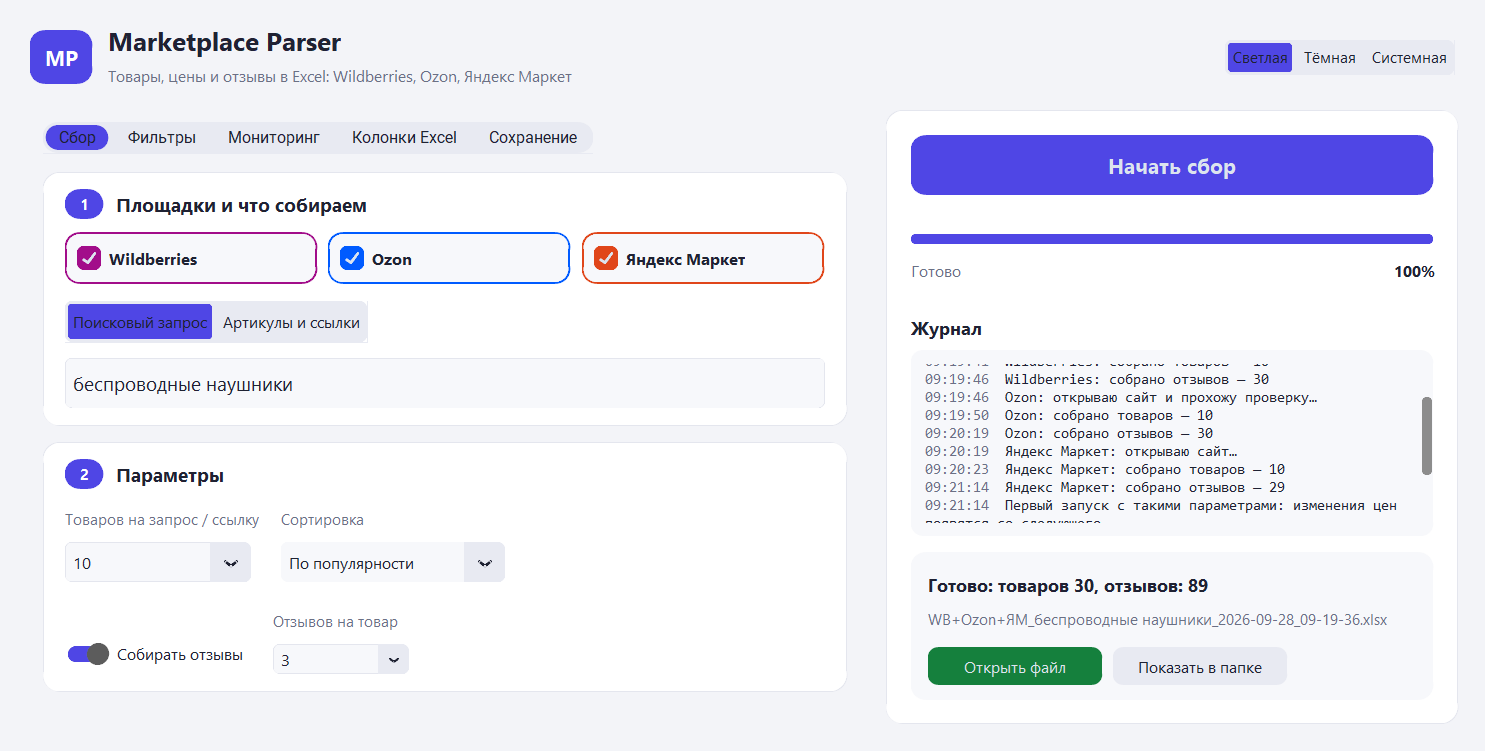
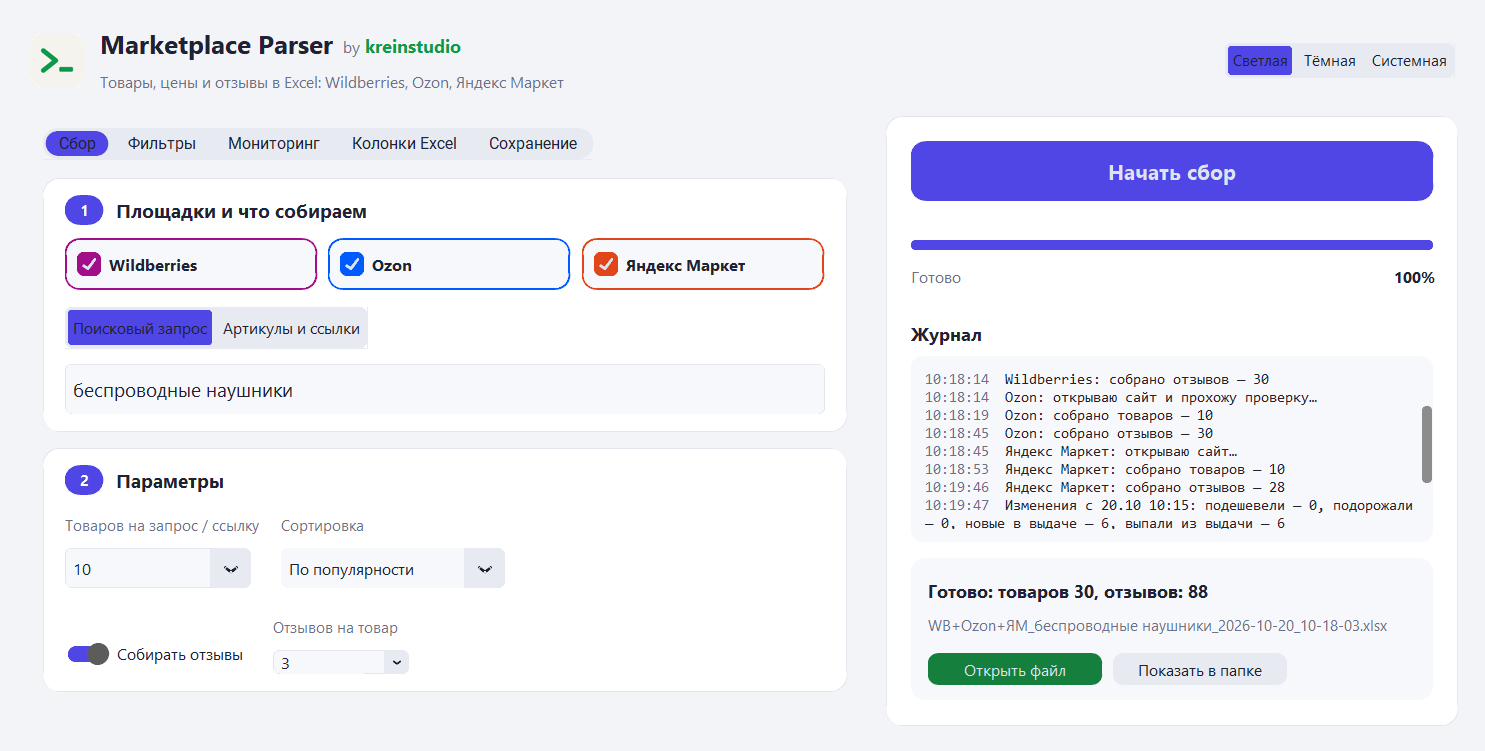
Фирменный стиль krein studio
- в шапке программы вместо значка «MP» — фирменная иконка студии, рядом
  «Marketplace Parser by kreinstudio»; по нажатию на иконку и на название
  студии открывается kreinstudio.ru;
- иконка программы и .exe собрана из фирменного знака;
- логотип студии в начале README на обоих языках, ссылка на сайт в разделе
  «Автор»;
- скриншоты и GIF переснятые: инструменты теперь жёстко задают тему, иначе
  системная подменяла её на тёмную во время записи;
- pillow добавлен в зависимости: шапка рисует логотип через CTkImage,
  а customtkinter сам его не требует;
- сборка кладёт в .exe всю папку assets, включая фирменные знаки.

diff --git a/mpparser/gui/app.py b/mpparser/gui/app.py
@@ -8,6 +8,7 @@ import os
 import queue
 import subprocess
 import threading
+import webbrowser
 from dataclasses import replace
 from datetime import datetime
 from logging.handlers import RotatingFileHandler
@@ -16,6 +17,7 @@ from tkinter import filedialog, messagebox
 from typing import Any, ClassVar
 
 import customtkinter as ctk
+from PIL import Image
 
 from .. import APP_NAME, __version__, plugins
 from ..browser import Browser, BrowserError
@@ -111,12 +113,23 @@ class App(ctk.CTk):
     def _build_header(self) -> None:
         header = ctk.CTkFrame(self, fg_color="transparent")
         header.pack(fill="x", padx=24, pady=(18, 14))
-        logo = ctk.CTkLabel(header, text="MP", width=44, height=44, corner_radius=12, fg_color=theme.ACCENT,
-                            text_color="#FFFFFF", font=theme.font(17, "bold"))
+        logo = ctk.CTkLabel(header, text="", width=44, height=44, image=self._brand_icon())
         logo.pack(side="left")
+        self._open_site_on_click(logo)
+
         titles = ctk.CTkFrame(header, fg_color="transparent")
         titles.pack(side="left", padx=12)
-        ctk.CTkLabel(titles, text=APP_NAME, font=theme.font(21, "bold"), text_color=theme.TEXT).pack(anchor="w")
+        name_row = ctk.CTkFrame(titles, fg_color="transparent")
+        name_row.pack(anchor="w")
+        ctk.CTkLabel(name_row, text=APP_NAME, font=theme.font(21, "bold"),
+                     text_color=theme.TEXT).pack(side="left")
+        ctk.CTkLabel(name_row, text="by", font=theme.font(13), text_color=theme.TEXT_MUTED).pack(
+            side="left", padx=(8, 4), pady=(6, 0))
+        studio = ctk.CTkLabel(name_row, text=theme.BRAND_NAME, font=theme.font(14, "bold"),
+                              text_color=theme.BRAND)
+        studio.pack(side="left", pady=(5, 0))
+        self._open_site_on_click(studio, highlight=True)
+
         names = ", ".join(mp.title for mp in self.marketplaces.values())
         ctk.CTkLabel(titles, text=f"Товары, цены и отзывы в Excel: {names}",
                      font=theme.font(13), text_color=theme.TEXT_MUTED).pack(anchor="w")
@@ -128,6 +141,30 @@ class App(ctk.CTk):
             text_color=theme.TEXT, fg_color=theme.NEUTRAL_BUTTON)
         self.appearance.set("Системная")
         self.appearance.pack(side="right")
+
+    def _brand_icon(self) -> ctk.CTkImage | None:
+        """Studio logo for the header; None when the file is missing, then the header shows text only."""
+        try:
+            light = Image.open(theme.resource_path(theme.BRAND_ICON["light"]))
+            dark = Image.open(theme.resource_path(theme.BRAND_ICON["dark"]))
+        except OSError as exc:
+            log.warning("Brand icon is missing: %s", exc)
+            return None
+        return ctk.CTkImage(light_image=light, dark_image=dark, size=(44, 44))
+
+    def _open_site_on_click(self, widget: ctk.CTkLabel, highlight: bool = False) -> None:
+        """Make a label open the studio site, with a hand cursor and a hover colour.
+
+        CustomTkinter draws a label as a tkinter widget inside a frame, so the cursor has to be set on the
+        inner widgets as well — otherwise it only changes on the thin border around the text.
+        """
+        for inner in (widget, getattr(widget, "_label", None), getattr(widget, "_canvas", None)):
+            if inner is not None:
+                inner.configure(cursor="hand2")
+        widget.bind("<Button-1>", lambda _: webbrowser.open(theme.BRAND_URL))
+        if highlight:
+            widget.bind("<Enter>", lambda _: widget.configure(text_color=theme.BRAND_HOVER))
+            widget.bind("<Leave>", lambda _: widget.configure(text_color=theme.BRAND))
 
     def _build_marketplaces(self, parent: ctk.CTkBaseClass) -> None:
         row = ctk.CTkFrame(parent, fg_color="transparent")

diff --git a/tools/record_gif.py b/tools/record_gif.py
@@ -33,16 +33,16 @@ def main() -> None:
     setup_logging()
     ctk.set_appearance_mode("light")
     app = App()
+    app._set_appearance("Светлая")  # иначе системная тема вернётся через несколько секунд
     app.appearance.set("Светлая")
-    app._apply_log_colors()
     for key, variable in app.mp_vars.items():
         variable.set(True)
         app.mp_toggles[key]._refresh()
     app._refresh_marketplace_state()
     app.query.delete(0, "end")
     app.query.insert(0, query)
-    app.max_products.combo.set("10")
-    app.max_reviews.combo.set("3")
+    app.max_products.combo.set("6")  # короткий демонстрационный сбор: GIF должен успеть дойти до «Готово»
+    app.max_reviews.combo.set("2")
     app.output_dir.delete(0, "end")
     app.output_dir.insert(0, str(output_dir))
     app.open_when_done.deselect()

diff --git a/mpparser/gui/theme.py b/mpparser/gui/theme.py
@@ -22,6 +22,13 @@ WARNING = ("#B45309", "#F59E0B")
 NEUTRAL_BUTTON = ("#E8EAF2", "#2A2E3D")
 NEUTRAL_BUTTON_HOVER = ("#DADDE8", "#343949")
 
+# krein studio: зелёный акцент логотипа, разные оттенки для светлой и тёмной темы.
+BRAND = ("#0C9A4A", "#5CF28E")
+BRAND_HOVER = ("#0A7F3C", "#8DF7B2")
+BRAND_NAME = "kreinstudio"
+BRAND_URL = "https://kreinstudio.ru/"
+BRAND_ICON = {"light": "assets/brand/icon-light-512.png", "dark": "assets/brand/icon-dark-512.png"}
+
 FONT_FAMILY = "Segoe UI"
 
 

diff --git a/tools/screenshot.py b/tools/screenshot.py
@@ -43,8 +43,8 @@ def main() -> None:
         demo_task()
     ctk.set_appearance_mode(appearance)
     app = App()
+    app._set_appearance("Светлая" if appearance == "light" else "Тёмная")
     app.appearance.set("Светлая" if appearance == "light" else "Тёмная")
-    app._apply_log_colors()
     for key, variable in app.mp_vars.items():
         variable.set(True)
         app.mp_toggles[key]._refresh()

diff --git a/README.md b/README.md
@@ -1,3 +1,12 @@
+<p align="center">
+  <a href="https://kreinstudio.ru/">
+    <picture>
+      <source media="(prefers-color-scheme: dark)" srcset="docs/brand/logo-dark@2x.png">
+      <img src="docs/brand/logo-light@2x.png" alt="krein — студия разработки" width="300">
+    </picture>
+  </a>
+</p>
+
 # Marketplace Parser — товары, цены и отзывы маркетплейсов в Excel
 
 [![Тесты](https://github.com/krein15/marketplace-parser/actions/workflows/tests.yml/badge.svg)](https://github.com/krein15/marketplace-parser/actions/workflows/tests.yml)
@@ -219,7 +228,7 @@ tests/                  тесты и фикстуры
 
 ## Автор
 
-**Бондаренко Николай** — разработка парсеров и автоматизации на Python.
+**Бондаренко Николай**, [krein — студия разработки](https://kreinstudio.ru/) — парсеры и автоматизация на Python.
 Нужен похожий парсер или доработка под вашу задачу — пишите.
 
 - Telegram: [@krein1](https://t.me/krein1)

diff --git a/README.en.md b/README.en.md
@@ -1,3 +1,12 @@
+<p align="center">
+  <a href="https://kreinstudio.ru/">
+    <picture>
+      <source media="(prefers-color-scheme: dark)" srcset="docs/brand/logo-dark@2x.png">
+      <img src="docs/brand/logo-light@2x.png" alt="krein — development studio" width="300">
+    </picture>
+  </a>
+</p>
+
 # Marketplace Parser — products, prices and reviews from marketplaces into Excel
 
 [![Tests](https://github.com/krein15/marketplace-parser/actions/workflows/tests.yml/badge.svg)](https://github.com/krein15/marketplace-parser/actions/workflows/tests.yml)
@@ -213,7 +222,7 @@ tests/                  tests and fixtures
 
 ## Author
 
-**Nikolay Bondarenko** — Python developer: web scraping and automation.
+**Nikolay Bondarenko**, [krein development studio](https://kreinstudio.ru/) — web scraping and automation in Python.
 Need a similar scraper or a custom version? Get in touch.
 
 - Telegram: [@krein1](https://t.me/krein1)
